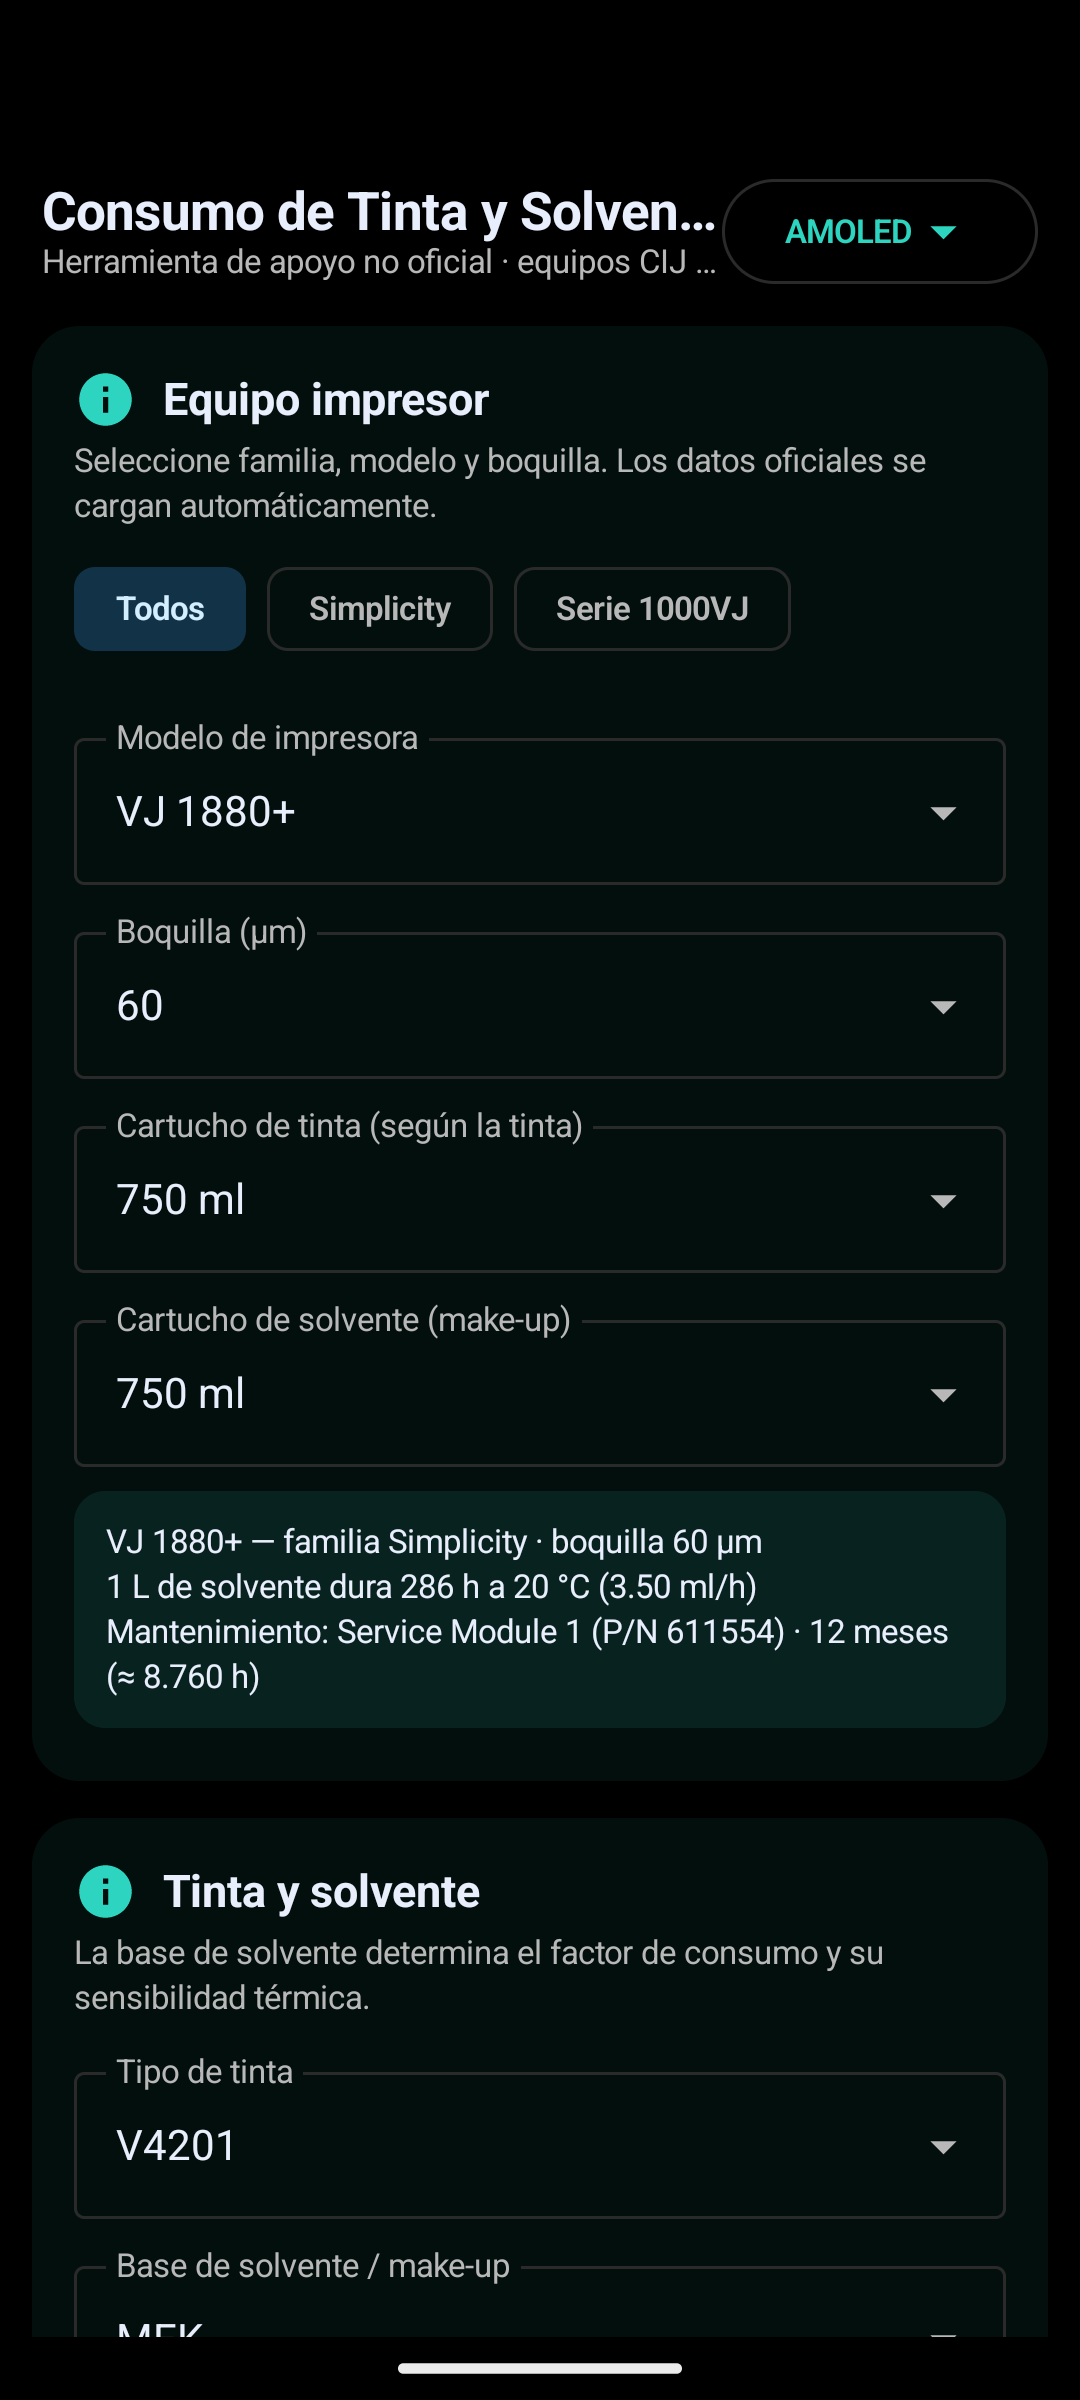
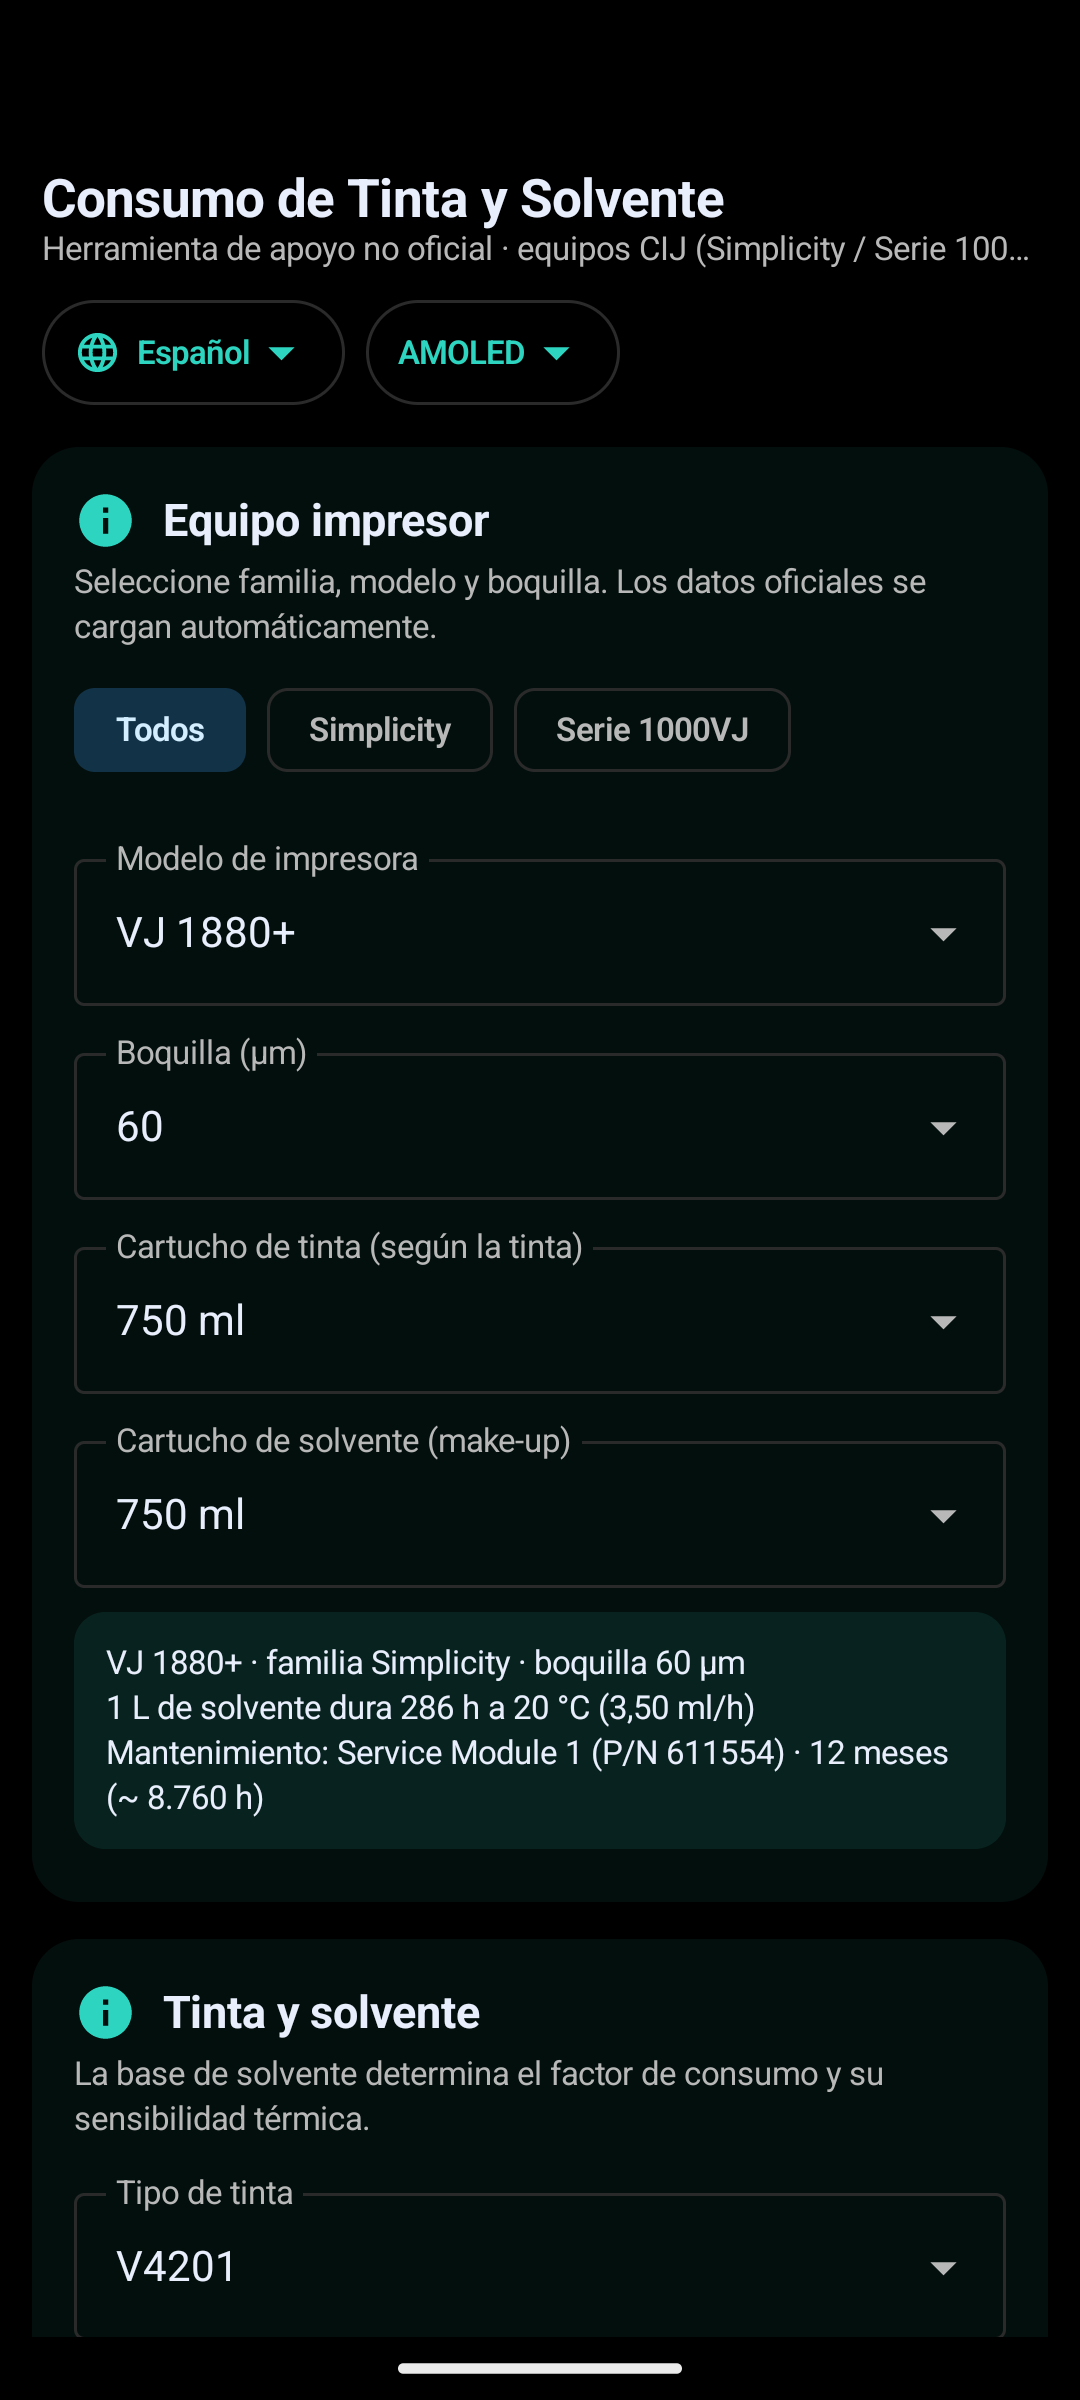
2.3.0: capturas nuevas, portada actualizada y APK reconstruida

diff --git a/docs/index.html b/docs/index.html
@@ -156,7 +156,7 @@ footer{border-top:1px solid var(--border);background:rgba(17,28,49,.55);margin-t
         <a class="btn" href="https://github.com/emanuelindustri-source/consumo-cij-calculadora" target="_blank" rel="noopener">Código fuente</a>
       </div>
       <div class="meta">
-        <span><b>Android 14+</b> · APK 1,9 MB</span>
+        <span><b>Android 14+</b> · APK 2,0 MB</span>
         <span><b>Web</b> · un solo archivo</span>
         <span><b>6 idiomas</b> · ES · EN · PT · IT · ZH</span>
         <span><b>Aviso de versión</b> · SHA-256</span>
@@ -227,6 +227,15 @@ footer{border-top:1px solid var(--border);background:rgba(17,28,49,.55);margin-t
         de la web traducidos y la versión ya no se escribe a mano en el código.</p>
       </article>
     </div>
+    <div style="display:flex;justify-content:center;margin:16px 0 6px">
+      <img src="assets/actualizaciones.png"
+           alt="Tarjeta de Actualizaciones de la app Android con comprobación automática y avisos de versión nueva"
+           loading="lazy"
+           style="width:min(100%,370px);border-radius:24px;border:1px solid var(--line);box-shadow:var(--shadow)">
+    </div>
+    <p style="text-align:center;color:var(--txt3);font-size:.82rem;margin:0 0 14px">
+      «Actualizaciones» en la app: comprobación diaria, aviso de versión nueva y descarga verificada.
+    </p>
     <div class="note">
       <b>Seguimiento:</b> <a href="notas.html">Notas de la versión 2.3.0</a> ·
       <a href="VERSIONES.md">historial de versiones</a> ·
@@ -290,7 +299,7 @@ footer{border-top:1px solid var(--border);background:rgba(17,28,49,.55);margin-t
     <div class="grid">
       <article class="card">
         <h3><span class="ic"><svg viewBox="0 0 24 24" fill="none" stroke="currentColor" stroke-width="2"><rect x="6" y="2.5" width="12" height="19" rx="2.5"/><path d="M10.5 19h3"/></svg></span> App Android</h3>
-        <p>APK firmado, 1,9 MB, Android 14 o superior. Cálculos sin internet y aviso de versión nueva con descarga verificada.</p>
+        <p>APK firmado, 2,0 MB, Android 14 o superior. Cálculos sin internet y aviso de versión nueva con descarga verificada.</p>
         <p style="margin-top:10px"><a class="btn primary" href="https://github.com/emanuelindustri-source/consumo-cij-calculadora/releases/latest" target="_blank" rel="noopener">Descargar APK</a></p>
       </article>
       <article class="card">
